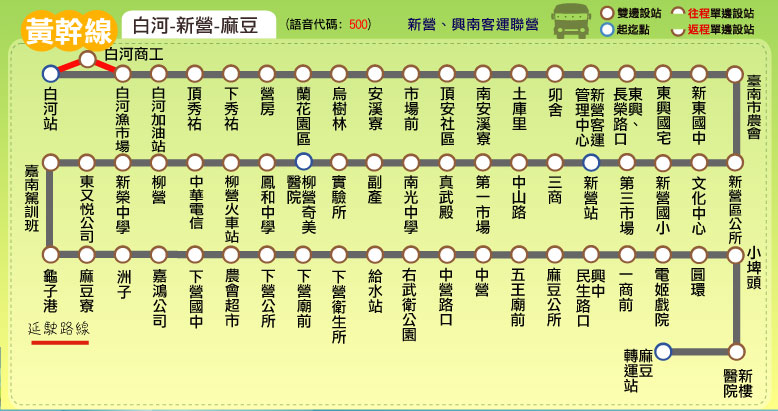
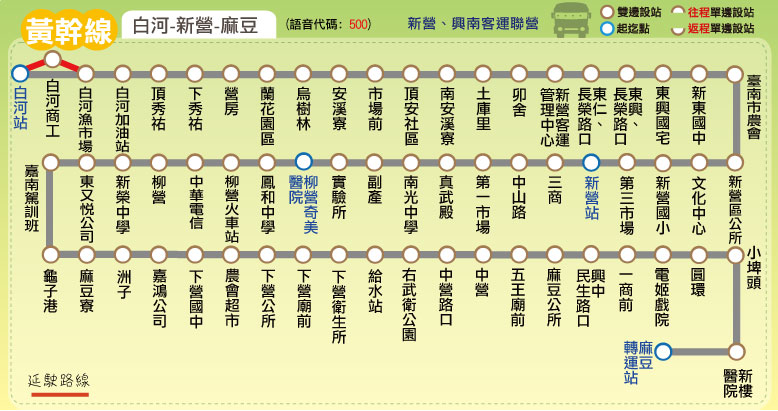
新增站位：黃幹線、黃9(增「東仁、長榮路口」)；更新時刻表：棕幹線(移除月津港燈節加班車)

diff --git a/route/fare_and_time/brown.js b/route/fare_and_time/brown.js
@@ -34,22 +34,21 @@ brown_fare = [
 // format = [time at the start stop] or
 // [time, other] or
 // [time, start_stop, end_stop, other]
-brown_main_stop_name = ["新營","民治<br />市政中心","統聯<br />客運","橋南老街","鹽水","歡雅","大埔","麻油寮","學甲公所","奇美<br />佳里分院","佳里"];
-brown_main_stop_time_consume = [0, 3, 8, 17, 18, 26, 33, 33, 43, 53, 60];
-brown_important_stop = [0, 3, 4, 8, 10]; // 新營, 橋南老街, 鹽水, 學甲公所, 佳里
+brown_main_stop_name = ["新營","民治<br />市政中心","統聯<br />客運","鹽水","歡雅","大埔","麻油寮","學甲公所","奇美<br />佳里分院","佳里"];
+brown_main_stop_time_consume = [0, 3, 8, 18, 26, 33, 33, 43, 53, 60];
+brown_important_stop = [0, 3, 7, 9]; // 新營, 鹽水, 學甲公所, 佳里
 var start_stop = 0; // 新營
-var end_stop = 4; // 鹽水
-var skip_stop_1 = 6; // 大埔
-var skip_stop_2 = 7; // 麻油寮
-var end_stop_2 = 8; // 學甲公所
-var chiaonan = 3; // 橋南老街
+var end_stop = 3; // 鹽水
+var skip_stop_1 = 5; // 大埔
+var skip_stop_2 = 6; // 麻油寮
+var end_stop_2 = 7; // 學甲公所
 brown_time_go = [["05:50",start_stop,end_stop_2,[skip_stop_1]],["06:00",start_stop,end_stop,['L',[end_stop,2]]],["06:05",[skip_stop_2,'L']],["06:35",[skip_stop_1,'L']],["07:05",[skip_stop_2]],["07:35",[skip_stop_2]],["08:05",[skip_stop_1]],["08:35",[skip_stop_2]],["09:05",[skip_stop_2]],["09:35",[skip_stop_2,'L']],
 ["10:05",[skip_stop_1,'L']],["10:35",[skip_stop_2]],["11:05",[skip_stop_2]],["11:35",[skip_stop_2]],["12:05",[skip_stop_2]],["12:35",[skip_stop_1]],["13:05",[skip_stop_2,'L']],["14:05",[skip_stop_2]],["14:35",[skip_stop_1,'L']],
 ["15:05",[skip_stop_2]],["15:20",start_stop,end_stop_2,[skip_stop_1]],["15:35",[skip_stop_2,'L']],["16:05",[skip_stop_2,'L']],["16:35",[skip_stop_2]],["17:05",start_stop,end_stop,[[end_stop,5]]],["17:10",[skip_stop_1]],["17:35",[skip_stop_2,'L']],["18:15",[skip_stop_2]],
-["18:35",start_stop,chiaonan,['燈']],["18:55",start_stop,chiaonan,['燈']],["19:05",[skip_stop_2]],["19:25",start_stop,chiaonan,['燈']],["19:45",start_stop,chiaonan,['燈']],["20:05",[skip_stop_2]],["20:35",start_stop,chiaonan,['燈']],["21:05",start_stop,chiaonan,['燈']],["21:40",start_stop,chiaonan,['燈']]
+["19:05",[skip_stop_2]],["20:05",[skip_stop_2]]
 ];
 brown_time_return = [["06:30",end_stop,start_stop,['L',[start_stop,5]]],["06:00",[skip_stop_2]],["06:35",[skip_stop_1]],["07:05",[skip_stop_2]],["07:35",[skip_stop_2,'L']],["08:05",[skip_stop_1,'L']],["08:30",end_stop_2,start_stop,[skip_stop_1]],["08:35",[skip_stop_2]],["09:05",[skip_stop_2]],["09:35",[skip_stop_2]],
 ["10:05",[skip_stop_1]],["10:35",[skip_stop_2]],["11:05",[skip_stop_2,'L']],["11:35",[skip_stop_1,'L']],["12:05",[skip_stop_2]],["12:35",[skip_stop_2]],["13:05",[skip_stop_2]],["14:05",[skip_stop_1]],["14:35",[skip_stop_2,'L']],
 ["15:05",[skip_stop_2]],["15:35",[skip_stop_2]],["16:05",[skip_stop_1,'L']],["16:35",[skip_stop_2]],["17:40",end_stop,start_stop,[[start_stop,5]]],["17:05",[skip_stop_2,'L']],["17:35",[skip_stop_2,'L']],["18:15",end_stop_2,start_stop,[skip_stop_1]],["18:05",[skip_stop_1]],
-["19:05",chiaonan,start_stop,['燈']],["19:25",chiaonan,start_stop,['燈']],["19:05",[skip_stop_2,'L']],["19:55",chiaonan,start_stop,['燈']],["20:15",chiaonan,start_stop,['燈']],["20:05",[skip_stop_2]],["21:05",chiaonan,start_stop,['燈']],["21:35",chiaonan,start_stop,['燈']],["22:10",chiaonan,start_stop,['燈']]
+["19:05",[skip_stop_2,'L']],["20:05",[skip_stop_2]]
 ];

diff --git a/brown/brown.html b/brown/brown.html
@@ -17,10 +17,10 @@
 <body>
 <script type="text/javascript">
 	block_header();
-	block_route_map('<img src="http://www.singing168.com.tw/images/1070208(2).jpg" style="width: 800px; height: auto;" />');
+	block_route_map(null);
 	block_route_info(route_interval,'新營客運、興南客運','尖30離30~60','里程計費','http://www.2384.com.tw/ebus/jsp/ajaxBus.jsp?pathId=1300&locale=zh_TW');
 	block_fare(0, null);
-	block_time_schedule('新營','佳里',L_message+'<br /><span style="font-size: 18px; font-weight: bold;">「<span style="color: blue;">燈</span>」表示於107年月津港燈節期間(107.02.10 ~ 107.03.04)行駛，<br />加班車行駛區間為新營－鹽水（橋南老街），不進入橋南里站停靠</span>');
+	block_time_schedule('新營','佳里',L_message);
 	block_transfer(transfer_hsinyin + transfer_yanshui + transfer_syuejia + transfer_jiali);
 	block_copyright();
 </script>

diff --git a/yellow/yellow_9.html b/yellow/yellow_9.html
@@ -22,7 +22,8 @@
 	block_fare(0, null);
 	block_time_schedule('新營','高鐵嘉義站/故宮南院',W_message + '；「<span style="color:red;">五</span>」表示每週五行駛，逢連續假期則於休假前一天行駛</h3>\
 		<br /><h3>「<span style="color: #003B5C;">臺南市政府民治中心</span>」停靠時間為：<span style="color: blue;">周一至周五 06:30~18:30</span></h3>\
-		<br /><h3>每<span style="color:red;">周二至周日</span>部分班次延駛<span style="color:green;">故宮南院</span>');
+		<br /><h3>每<span style="color:red;">周二至周日</span>部分班次延駛<span style="color:green;">故宮南院</span>\
+		<br /><span style="color:navy;">高鐵嘉義站往、返程皆停靠2號月台</span>');
 	block_transfer(transfer_hsinyin + transfer_houbi_railway_station + transfer_hsr_chiayi_station);
 	block_copyright();
 </script>

diff --git a/tourist/33.html b/tourist/33.html
@@ -22,7 +22,8 @@
 	block_route_map(null);
 	block_route_info(route_interval,'新營客運','','里程計費','http://www.2384.com.tw/ebus/jsp/ajaxBus.jsp?pathId=1033&locale=zh_TW');
 	block_fare(0,'');
-	block_time_schedule('新營','關子嶺','<span style="color:red;font-weight:bold;font-size:28px;">每週五、六、日、一與國定假日行駛</span>');
+	block_time_schedule('新營','關子嶺','<span style="color:red;font-weight:bold;font-size:28px;">每週五、六、日、一與國定假日行駛</span>\
+		<br /><span style="color:navy;font-weight:bold;font-size:20px;">高鐵嘉義站往程停靠3號月台、返程停靠2號月台</span>');
 	block_transfer(transfer_hsinyin + transfer_houbi_railway_station + transfer_hsr_chiayi_station + transfer_baihe + transfer_guanziling);
 	block_copyright();
 </script>

diff --git a/route/fare_and_time/yellow.js b/route/fare_and_time/yellow.js
@@ -5,7 +5,7 @@ yellow_interval_stop = [ // 2015.08.31 checked
 ["營房"], // 營房
 ["蘭花園區","烏樹林"], // 烏樹林
 ["安溪寮","市場前","頂安社區","南安溪寮"], // 安溪寮
-["土庫里","卯舍","新營客運管理中心","東興、長榮路口","東興國宅","新東國中","臺南市農會","新營公所","文化中心",
+["土庫里","卯舍","新營客運管理中心","東仁、長榮路口","東興、長榮路口","東興國宅","新東國中","臺南市農會","新營公所","文化中心",
 "新營國小","第三市場","新營站","三商","中山路","第一市場","真武殿","南光中學"], // 新營
 ["副產","實驗所"], // 副產
 ["柳營奇美醫院","鳳和中學","柳營火車站","中華電信","柳營","新榮中學","東又悅公司"], // 柳營

diff --git a/route/fare_and_time/yellow_9.js b/route/fare_and_time/yellow_9.js
@@ -1,7 +1,7 @@
 yellow_9_interval_name = ["新營","南安溪寮","後壁火車站","上茄苳","南靖火車站","後寮村","高鐵嘉義站","故宮南院"];
 yellow_9_interval_stop = [ // 2015.08.31 checked
 ["新營站","第三市場","新營區公所","臺南市政府民治中心","臺南市農會","新東國中","東興國宅",
-"東興、長榮路口","新營客運管理中心","卯舍","土庫里"], // 新營
+"東興、長榮路口","東仁、長榮路口","新營客運管理中心","卯舍","土庫里"], // 新營
 ["南安溪寮","北安溪寮","下茄苳"], // 南安溪寮
 ["後壁高中","良食故事館","後壁火車站"], // 後壁火車站
 ["上茄苳"], // 上茄苳
